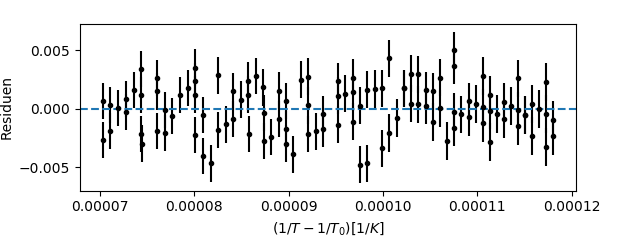
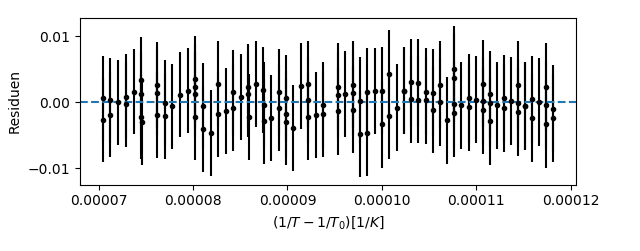
Richtigen Rauschfehler verwendet

diff --git a/Thermodynamik/Dampfdruckkurve_neu.tex b/Thermodynamik/Dampfdruckkurve_neu.tex
@@ -329,56 +329,51 @@ B & $1021.04 \pm 0.22$ & $-16.04 \pm 0.22$\\
 
 
 \subsection{Dichtigkeitsmessung}
-Eine sehr wichtige Voraussetzung für sinnvolle Ergebnisse ist, dass die Messapparatur dicht ist. Die Daten aus dem in Abschnitt \ref{sec:Aufbau und Durchfühung} erklärten Messverfahren vor dem Hauptversuch sind für Aufbau A in Abbildung \ref{fig:DichtigkeitA} und die zugehörigen Residuen in Abbildung \ref{fig:ResiduenDichtigkeitA} zu sehen. Das Muster, dass sich in den Residuen zeigt, ist bedingt durch das Auflösungsvermögen des Drucksensor, welches eindrucksvoll anhand der Stufenform des Plots der Rohdaten zu sehen ist. \\
+Eine sehr wichtige Voraussetzung für sinnvolle Ergebnisse ist, dass die Messapparatur dicht ist. Die Daten aus dem in Abschnitt \ref{sec:Aufbau und Durchfühung} erklärten Messverfahren vor dem Hauptversuch und die zugehörigen Residuen sind für Aufbau A in Abbildung \ref{fig:DichtigkeitA} zu sehen. Das Muster, dass sich in den Residuen zeigt, ist bedingt durch das Auflösungsvermögen des Drucksensor, welches eindrucksvoll anhand der Stufenform des Plots der Rohdaten zu sehen ist. \\
 Aufgrund der Leckrate von $(0,215 \pm 0,02) \dfrac{hPa}{min}$ kann die Apparatur als dicht angenommen werden und der gemessene Druck kann direkt verwendet werden und muss nicht korrigiert werden.\\
 Auf eine Dichtigkeitsmessung nach dem Hauptversuch wurde verzichtet da während des Abkühlens der Aufbau empfindlich gestört wurde und keine Dichtigkeit mehr gegeben war. Es wird im weiteren Verlauf der Auswertung angenommen das die Undichtigkeit von Versuchsaufbau A während des Hauptversuchs vernachlässigbar klein blieb.
 
 \begin{figure}
+\centering
 \includegraphics[width=\linewidth]{Bilder/Dichtigkeit_vorher_A.png}
+\includegraphics[width=\linewidth]{Bilder/Residuen_Dichtigkeit_vorher_A.png}
 \caption[Dichtigkeit vor Hauptversuch Apparatur A]{Dichtigkeit vor Hauptversuch Apparatur A}
 \label{fig:DichtigkeitA}
 \end{figure}
 
-\begin{figure}
-\includegraphics[width=\linewidth]{Bilder/Residuen_Dichtigkeit_vorher_A.png}
-\caption[Dichtigkeit vor Hauptversuch Apparatur A]{Residuen der Dichtigkeit vor Hauptversuch Apparatur A}
-\label{fig:ResiduenDichtigkeitA}
-\end{figure}
-
-Die Ergebnisse der Dichtigkeit für Aufbau B vor der Hauptmessung sind ähnlich und finden sich den Abbildungen \ref{fig:DichtigkeitB} und \ref{fig:ResiduenDichtigkeitB}.\\
+Die Ergebnisse der Dichtigkeit für Aufbau B vor der Hauptmessung sind ähnlich und finden sich in Abbildung \ref{fig:DichtigkeitB}.\\
 Aufgrund der Leckrate von $(0,236 \pm 0,035) \dfrac{hPa}{min}$ kann die Apparatur auch hier als dicht angenommen werden und der gemessene Druck kann direkt verwendet werden und muss nicht korrigiert werden.\\
-Nach Durchführung des Hauptversuches wurde für Aufbau B eine erneute Dichtigkeitsmessung vorgenommen (Abb. \ref{fig:DichtigkeitNachherB} und \ref{fig:ResiduenDichtigkeitNachherB}).\\
+Nach Durchführung des Hauptversuches wurde für Aufbau B eine erneute Dichtigkeitsmessung vorgenommen (Abb. \ref{fig:DichtigkeitNachherB}).\\
 Die Leckrate ist mit $(2,718 \pm 0,160) \dfrac{hPa}{min}$ deutlich schlechter geworden im Vergleich zu der Leckrate vor dem Hauptversuch. Dies könnte daran liegen, dass die Dichtigkeitsmessung nicht mit dem nach dem Hauptversuch vorhandenen Unterdruck durchgeführt wurde, sondern wie zu Beginn mit der Handvakuumpumpe. Durch das Wackeln an der Apparatur beim Anschließen dieser könnten sich Undichtigkeiten aufgetan haben, welche dann den Wert der zweiten Messung verschlechtert haben, auf die Hauptmessung aber keinen Einfluss haben, weil sie erst nach dieser aufgetreten sind. Daher wird im Folgenden davon dennoch ausgegangen, dass die Undichtigkeit vernachlässigbar gering ist.
 
 
 \begin{figure}
+\centering
 \includegraphics[width=\linewidth]{Bilder/Dichtigkeit_vorher_B.png}
+\includegraphics[width=\linewidth]{Bilder/Residuen_Dichtigkeit_vorher_B.png}
 \caption[Dichtigkeit vor Hauptversuch Apparatur B]{Dichtigkeit vor Hauptversuch Apparatur B}
 \label{fig:DichtigkeitB}
 \end{figure}
 
 \begin{figure}
-\includegraphics[width=\linewidth]{Bilder/Residuen_Dichtigkeit_vorher_B.png}
-\caption[Dichtigkeit vor Hauptversuch Apparatur B]{Residuen der Dichtigkeit vor Hauptversuch Apparatur B}
-\label{fig:ResiduenDichtigkeitB}
-\end{figure}
-
-\begin{figure}
+\centering
 \includegraphics[width=\linewidth]{Bilder/Dichtigkeit_nachher_B.png}
+\includegraphics[width=\linewidth]{Bilder/Residuen_Dichtigkeit_nachher_B}
 \caption[Dichtigkeit B nachher]{Dichtigkeit nach Haupversuch (B).}
 \label{fig:DichtigkeitNachherB}
-\end{figure}
-
-\begin{figure}
-\includegraphics[width=\linewidth]{Bilder/Residuen_Dichtigkeit_nachher_B}
-\caption{Residuen für Dichtigkeit nach dem Hauptversuch (B).}
-\label{fig:ResiduenDichtigkeitNachherB}
 \end{figure}
 
 
 
 \subsection{Hauptmessung}
 
+Für die Hauptmessung wurden folgende Cassy Einstellungen verwendet:\\
+
+\begin{tabular}{l l l}
+CASSY & Kanal A & Druck p1 0-1500hPa Momentanwert\\
+& Kanal B & Temperatur T1 -20C-120C Momentanwert\\
+Messparameter & automatisch & Intervall 1s
+\end{tabular}\\
 
 Die Rohdaten für Druck- und die Temperaturverlauf über die Zeit finden sich für beide Verusche in Abbildung \ref{fig:RohdatenA} und \ref{fig:RohdatenB}. Fügt man diese Daten über die Zeiten zusammen erhält man die Dampfdruckkurven (siehe Abbildung \ref{fig:DampfA} und \ref{fig:DampfB}).\\
 
@@ -475,17 +470,17 @@ aufgeführt.\\
 		\hline
 		\textbf{Temp. [K]} & \textbf{Steigung $\pm \sigma_{stat} \pm \sigma_{sys}$ [K]} & $\chi ^2/dof$ & \textbf{$\Lambda$ $\pm \sigma_{stat} \pm \sigma_{sys}$ [kJ/mol]} & \textbf{Abweichung} \\
 		\hline
-		367.0 bis 372.7 & -4917.19 $\pm$ 28.41 $\pm$ 3.60 & 0.54 & 40.88 $\pm$ 0.24 $\pm$ 0.03 & 0.3$\sigma$ \\
+		367.0 bis 372.7 & -4917.2 $\pm$ 28.4 $\pm$ 3.6 & 0.54 & 40.88 $\pm$ 0.24 $\pm$ 0.03 & 0.3$\sigma$ \\
 		\hline
-		361.3 bis 367.0 & -4883.06 $\pm$ 19.96 $\pm$ 3.72 & 0.43 & 40.60 $\pm$ 0.17 $\pm$ 0.03 & 2.8$\sigma$ \\
+		361.3 bis 367.0 & -4883.1 $\pm$ 20.0 $\pm$ 3.7 & 0.43 & 40.60 $\pm$ 0.17 $\pm$ 0.03 & 2.8$\sigma$ \\
 		\hline
-		355.6 bis 361.3 & -4817.71 $\pm$ 16.88 $\pm$ 3.86 & 0.05 & 40.05 $\pm$ 0.14 $\pm$ 0.03 & 8.8$\sigma$ \\
+		355.6 bis 361.3 & -4817.7 $\pm$ 16.9 $\pm$ 3.9 & 0.05 & 40.05 $\pm$ 0.14 $\pm$ 0.03 & 8.8$\sigma$ \\
 		\hline
-		349.9 bis 355.6 & -4814.17 $\pm$ 14.84 $\pm$ 4.12 & 0.06 & 40.03 $\pm$ 0.12 $\pm$ 0.03 & 12.2$\sigma$ \\
+		349.9 bis 355.6 & -4814.2 $\pm$ 14.8 $\pm$ 4.1 & 0.06 & 40.03 $\pm$ 0.12 $\pm$ 0.03 & 12.2$\sigma$ \\
 		\hline
-		344.2 bis 349.9 & -4867.60 $\pm$ 12.75 $\pm$ 4.53 & 0.08 & 40.47 $\pm$ 0.11 $\pm$ 0.04 & 12.2$\sigma$ \\
+		344.2 bis 349.9 & -4867.6 $\pm$ 12.8 $\pm$ 4.5 & 0.08 & 40.47 $\pm$ 0.11 $\pm$ 0.04 & 12.2$\sigma$ \\
 		\hline
-		338.5 bis 344.2 & -4505.32 $\pm$ 10.65 $\pm$ 4.65 & 0.07 & 37.46 $\pm$ 0.09 $\pm$ 0.04 & 48.1$\sigma$ \\
+		338.5 bis 344.2 & -4505.3 $\pm$ 10.7 $\pm$ 4.7 & 0.07 & 37.46 $\pm$ 0.09 $\pm$ 0.04 & 48.1$\sigma$ \\
 		\hline 
 	\end{tabular}\\		
 \\
@@ -494,17 +489,17 @@ aufgeführt.\\
 		\hline
 		\textbf{Temp. [K]} & \textbf{Steigung $\pm \sigma_{stat} \pm \sigma_{sys}$ [K]} & $\chi ^2/dof$ & \textbf{$\Lambda$ $\pm \sigma_{stat} \pm \sigma_{sys}$ [kJ/mol]} & \textbf{Abweichung} \\
 		\hline
-		363.5 bis 369.8 & -4981.91 $\pm$ 18.63 $\pm$ 1.82 & 1.91 & 41.42 $\pm$ 0.15 $\pm$ 0.02 & 3.0$\sigma$ \\
+		363.4 bis 369.7 & -4981.9 $\pm$ 18.6 $\pm$ 4.9 & 0.11 & 41.42 $\pm$ 0.15 $\pm$ 0.04 & 2.9$\sigma$ \\
 		\hline
-		357.1 bis 363.5 & -4973.27 $\pm$ 13.70 $\pm$ 2.13 & 1.75 & 41.35 $\pm$ 0.11 $\pm$ 0.02 & 0.9$\sigma$ \\
+		357.1 bis 363.4 & -4973.6 $\pm$ 13.7 $\pm$ 5.1 & 0.10 & 41.35 $\pm$ 0.11 $\pm$ 0.04 & 0.9$\sigma$ \\
 		\hline
-		350.8 bis 357.1 & -5095.07 $\pm$ 15.91 $\pm$ 2.64 & 0.34 & 42.36 $\pm$ 0.13 $\pm$ 0.02 & 6.2$\sigma$ \\
+		350.8 bis 357.1 & -5095.7 $\pm$ 15.9 $\pm$ 5.5 & 0.02 & 42.37 $\pm$ 0.13 $\pm$ 0.05 & 5.9$\sigma$ \\
 		\hline
-		344.5 bis 350.8 & -5365.19 $\pm$ 12.57 $\pm$ 3.47 & 0.37 & 44.61 $\pm$ 0.10 $\pm$ 0.03 & 25.7$\sigma$ \\
+		344.5 bis 350.8 & -5366.2 $\pm$ 12.6 $\pm$ 6.2 & 0.02 & 44.61 $\pm$ 0.10 $\pm$ 0.05 & 24.0$\sigma$ \\
 		\hline
-		338.2 bis 344.5 & -5409.06 $\pm$ 12.33 $\pm$ 4.52 & 0.47 & 44.97 $\pm$ 0.10 $\pm$ 0.04 & 26.2$\sigma$ \\
+		338.2 bis 344.5 & -5411.0 $\pm$ 12.4 $\pm$ 7.0 & 0.03 & 44.99 $\pm$ 0.10 $\pm$ 0.06 & 24.4$\sigma$ \\
 		\hline
-		331.9 bis 338.2 & -5483.66 $\pm$ 11.13 $\pm$ 6.06 & 0.58 & 45.59 $\pm$ 0.09 $\pm$ 0.05 & 30.3$\sigma$ \\
+		331.9 bis 338.2 & -5484.1 $\pm$ 11.2 $\pm$ 8.2 & 0.04 & 45.59 $\pm$ 0.09 $\pm$ 0.07 & 27.8$\sigma$ \\
 		\hline
 	\end{tabular}
 
@@ -539,9 +534,10 @@ Den Beitrag durch den systematischen Temperaturfehler erhält man ebenfalls durc
 Da $\Lambda$ temperaturabhängig ist, muss der zur Messung passende Literaturwert erst noch bestimmt werden. Dazu haben wir als lineare Approximation eine Gerade durch die Literaturwerte zu 60C und 100C gelegt. Abbildung \ref{fig:LiteraturwertLambda} zeigt die Literaturwerte (60C, 80C, 100C) als blaue Punkte und die lineare Näherung als rote Linie. Es lässt sich leicht erkennen, dass die Näherung in diesem Temperaturbereich gut funktioniert. Daher wird mit dieser gerechnet und diese ist auch in die Ergebnisplots eingezeichnet. \\
 In Abb. \ref{fig:EntTempA} findet sich die Auftragung der verschiedenen Werte von $\Lambda$ bei den entsprechenden Temperaturen. In Abb. \ref{fig:EntTempB} findet sich die selbe Darstellung für Aufbau B.\\
 
-Es fällt auf, dass bei beiden Versuchen die zeitlich ersten Werte im Rahmen ihrer Fehler relativ gut mit dem Literaturwert übereinstimmen (Jeweils die zwei Werte rechts in den Abbildungen \ref{fig:EntTempA} und \ref{fig:EntTempB}).\\
+Es fällt auf, dass bei beiden Versuchen die zeitlich ersten Werte im Rahmen ihrer Fehler relativ gut mit dem Literaturwert übereinstimmen (Jeweils die zwei Werte rechts in den Abbildungen \ref{fig:EntTempA} und \ref{fig:EntTempB}).
 Allerdings sind die restlichen Werte für $\Lambda$ in Aufbau A deutlich kleiner als die Literaturwerte und auch unter Berücksichtigung der Fehler nicht mehr mit dem Literaturwert vereinbar. Der Wert links in der Abbildung ist zeitlich gesehen der letzte Wert. Eine zumindest für diesen Wert naheliegende Erklärung ist, dass das Wasser zu diesem Zeitpunkt bereits nicht mehr am Sieden war. Für die übrigen Abweichungen liegen keine konkreten Erklärungen vor, am wahrscheinlichsten erscheint hier ein nicht näher bekanntes Problem mit dem Aufbau. \\
 Ähnlich verhält es sich für B, hier sind die übrigen Werte jedoch deutlich zu groß.\\
+Es ist naheliegend, dass die angegebenen Unsicherheiten um etwa eine Größenordnung zu klein sind, allerdings ist uns nicht klar woran dies liegt.\\
 Man beachte, dass ein zu großer Druck (z.B. durch den Partialdruck zusätzlich eingeschlossener Luft) für eine betragsmäßig größere Steigung sorgt und infolge dessen zu einem erhöhten Wert für $\Lambda$ führt.
 Die Abweichung nimmt mit zunehmender Messdauer (entspricht kleinerer Temperatur) immer mehr zu. Berücksichtigt man noch die zweite Dichtigkeitsmessung, welche deutlich schlechter als die erste ausgefallen ist, lässt sich zusammenfassend sagen, dass Aufbau B möglicherweise doch zu undicht war und während des Versuches eine ausreichend große Menge Luft in den Kolben eingedrungen ist und somit der gemessene Druck zunehmend größer als der tatsächliche Dampfdruck des Wassers wurde.\\
 
@@ -580,7 +576,7 @@ Die Abweichung nimmt mit zunehmender Messdauer (entspricht kleinerer Temperatur)
 
 \section{Fazit}
 Beiden Gruppen ist es nicht gelungen ein zufriedenstellendes Ergebnis zu erzielen. Nur zu Beginn der Messung stimmen wenige gemessene Werte im Rahmen der Messunsicherheit mit den Literaturwerten überein. Die übrigen Werte sind entweder viel kleiner (A) oder viel zu groß (B).\\
-Die Ursache für diese Abweichungen liegt wahrscheinlich im sehr empfindlichen Aufbau des Versuchs, welcher  während oder kurz vor der Hauptmessung gestört wurde. Dadurch ist die vernachlässigbare Undichtigkeit nicht mehr gewährleistet gewesen und es kommt zu den größtenteils massiven Abweichungen. 
+Die Ursache für diese Abweichungen liegt wahrscheinlich im sehr empfindlichen Aufbau des Versuchs, welcher  während oder kurz vor der Hauptmessung gestört wurde. Dadurch ist die vernachlässigbare Undichtigkeit nicht mehr gewährleistet gewesen und es kommt zu den größtenteils massiven Abweichungen.
 
 
 \end{document}
